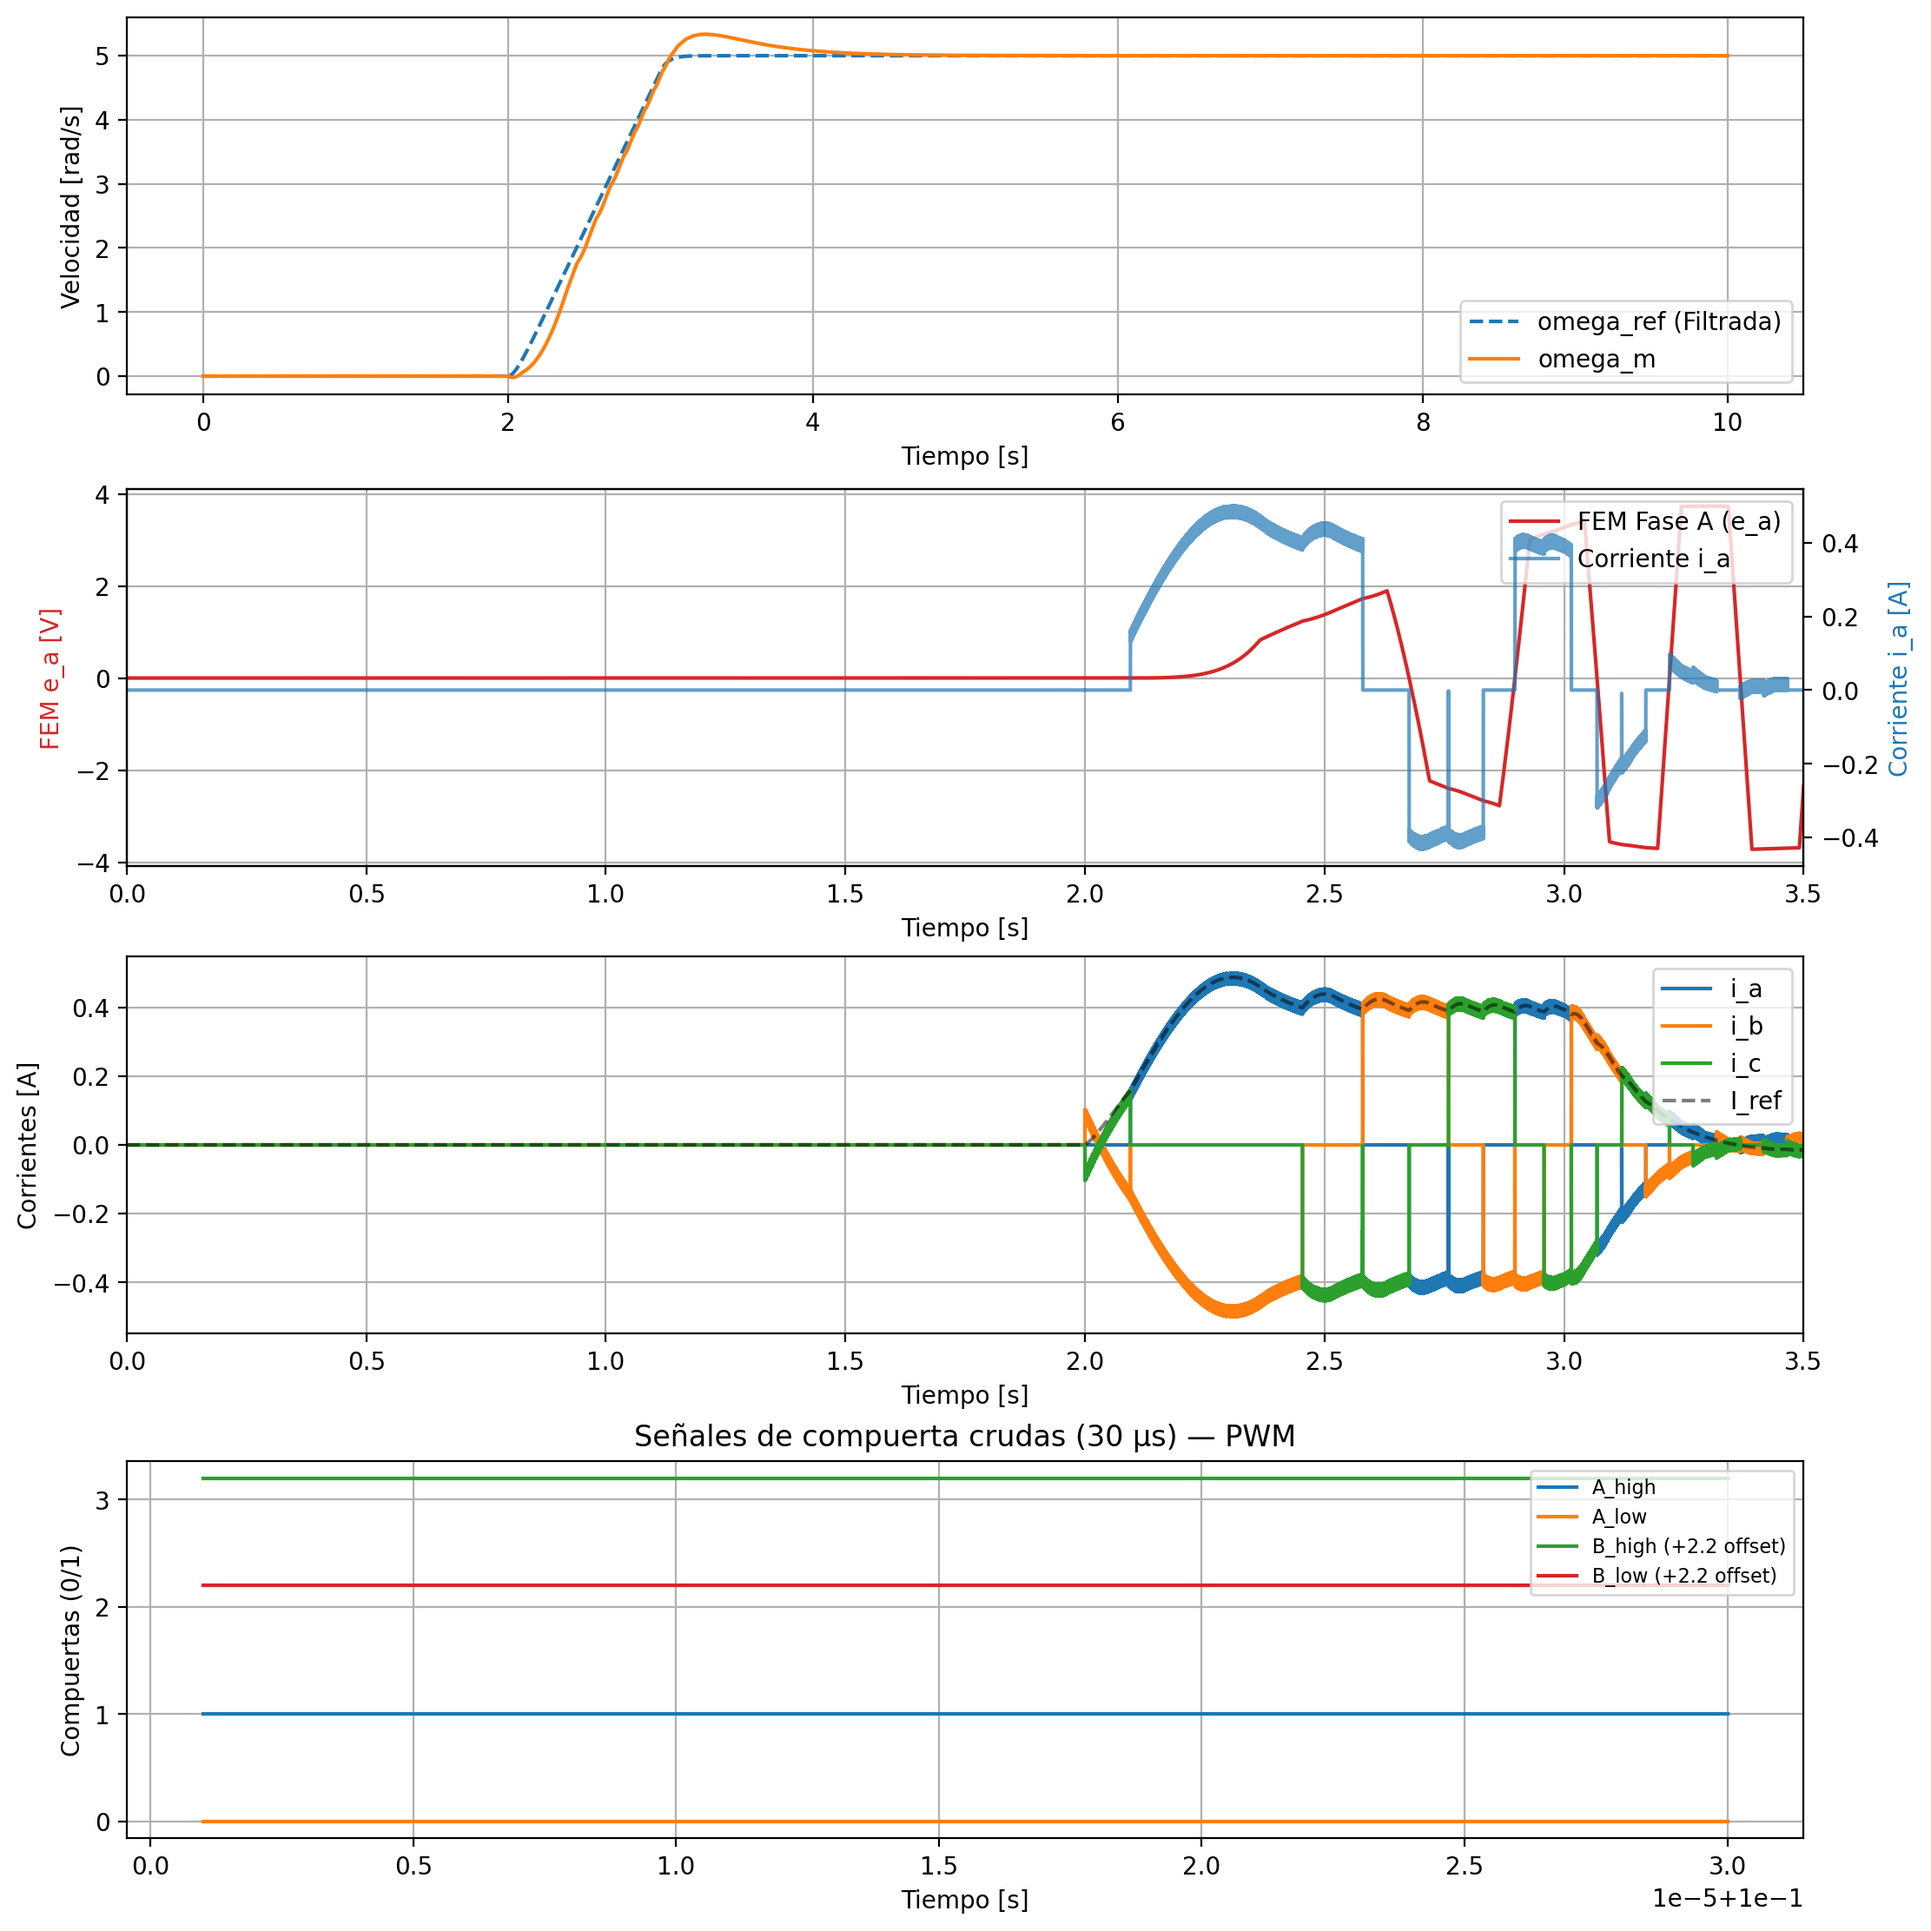
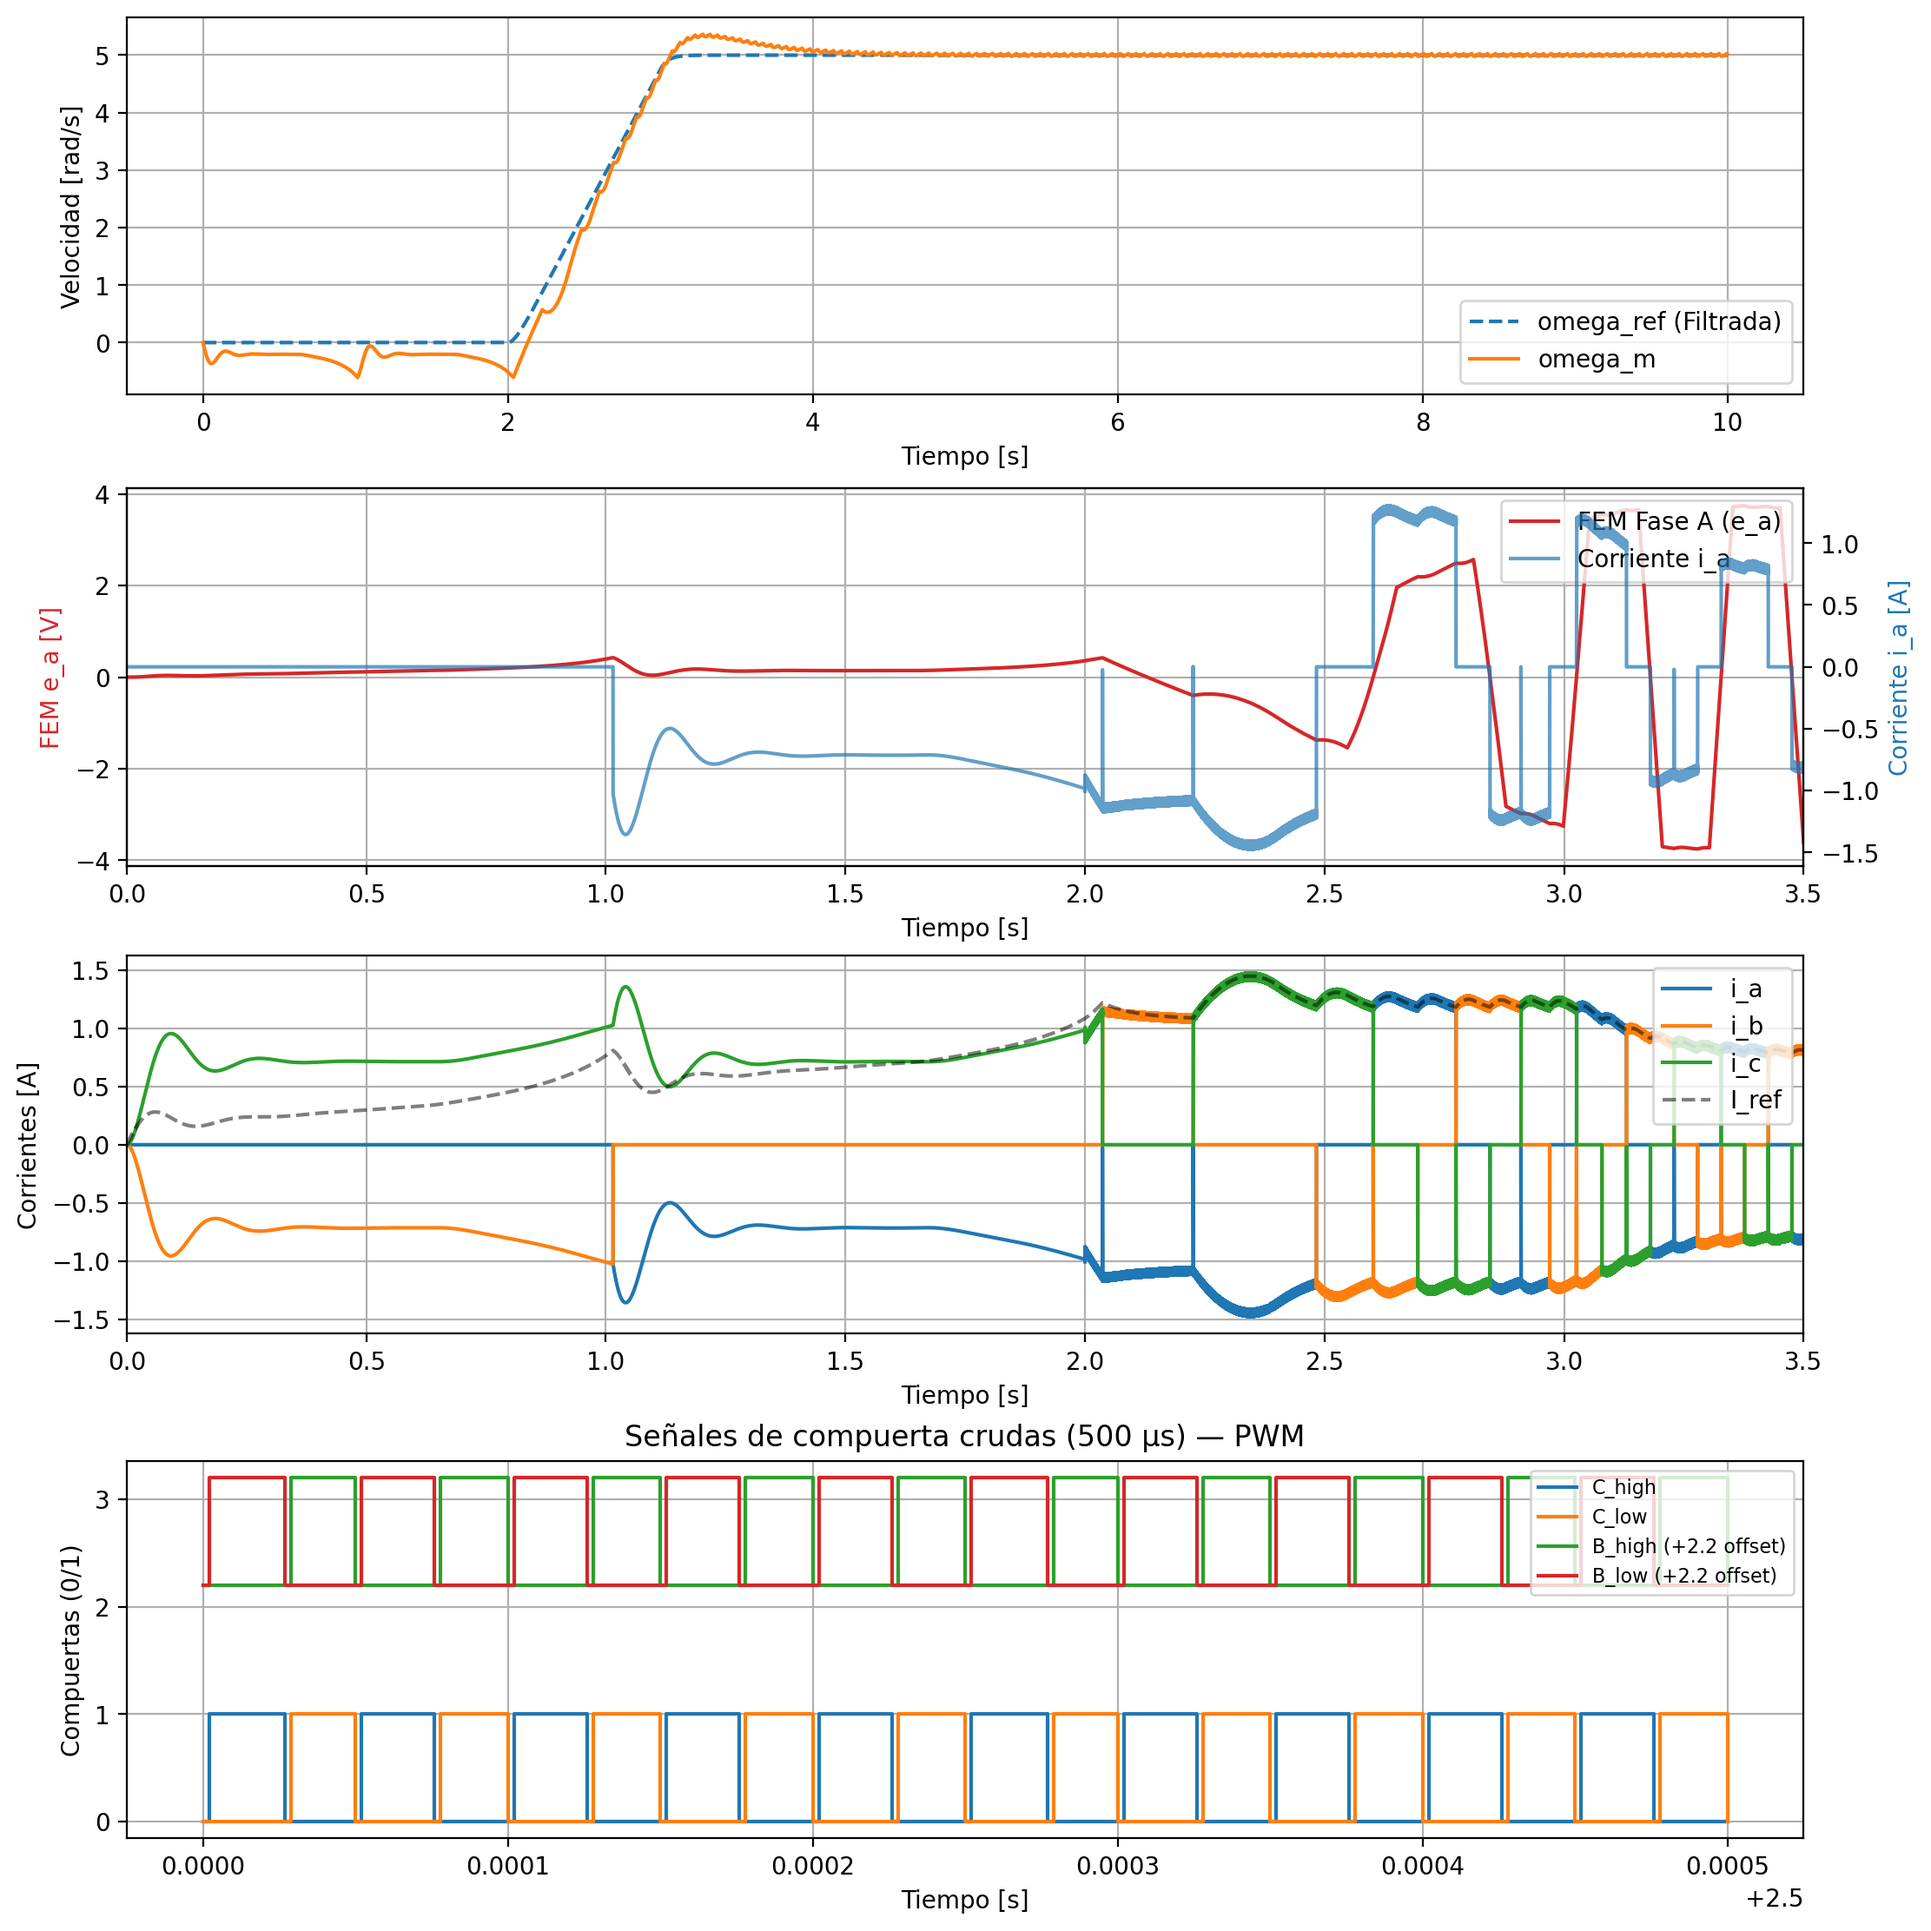
Simulación control por pwm, la fase C Y B estan activas, mientras que la A esta inactiva

diff --git a/src/main.py b/src/main.py
@@ -21,7 +21,7 @@ from electronica.inversor import Inversor
 # SELECCIÓN DE CONTROLADOR DE CORRIENTE
 # ============================================================
 # Opciones: "HISTERESIS" o "PWM"
-CONTROLADOR_CORRIENTE = "HISTERESIS"
+CONTROLADOR_CORRIENTE = "PWM"
 
 # ============================================================
 # PARÁMETROS DEL MOTOR
@@ -68,8 +68,7 @@ DEAD_TIME = 1e-6          # s
 # ============================================================
 T_INICIO_RAMPA = 2.0      # Tiempo en que inicia la rampa [s]
 T_DURACION_RAMPA = 1.0    # Tiempo que tarda en alcanzar la velocidad objetivo [s]
-OMEGA_TARGET = 5.0        # Velocidad final objetivo [rad/s]
-
+OMEGA_TARGET = 5.0
 MODO_CONDICION_INICIAL = "DOS_FASES"
 
 # ============================================================
@@ -84,7 +83,7 @@ TAU_FILTRO_REF = 0.05    # Constante de tiempo del Filtro Pasa Bajas [s]
 
 def crear_controlador_corriente():
     """
-    Importante: instancia el controlador de corriente según CONTROLADOR_CORRIENTE.
+    Instancia el controlador de corriente según CONTROLADOR_CORRIENTE.
     Ambas clases comparten la misma interfaz (.Ts y .calcular(...)),
     así que el resto del programa no necesita saber cuál está activo.
     """
@@ -125,7 +124,7 @@ def main():
     )
 
     n_steps = int(TIEMPO_SIM / DT_PLANT)
-    # k_current ahora se deriva del Ts propio del controlador activo,
+    # k_current se deriva del Ts propio del controlador activo,
     # así que funciona igual sin importar cuál esté seleccionado
     k_current = max(1, round(ctrl_corriente.Ts / DT_PLANT))
     k_speed = max(1, round(TS_VEL / DT_PLANT))
@@ -147,8 +146,8 @@ def main():
     hist_Te = np.zeros(n_steps)
     hist_wref = np.zeros(n_steps)
     hist_Iref = np.zeros(n_steps)
-    hist_Ah = np.zeros(n_steps)
-    hist_Al = np.zeros(n_steps)
+    hist_Ch = np.zeros(n_steps)
+    hist_Cl = np.zeros(n_steps)
     hist_Bh = np.zeros(n_steps)
     hist_Bl = np.zeros(n_steps)
 
@@ -161,7 +160,7 @@ def main():
         if k % k_speed == 0:
             I_ref = ctrl_velocidad.calcular(wref_filtrada, motor.omega_m)
 
-        if k % k_current == 0:
+        if k % k_current == 0:  # Debo cambiar esto, poner otra lógica que me ayude a disminuir los picos de corriente
             if t < T_INICIO_RAMPA:
                 if MODO_CONDICION_INICIAL == "DOS_FASES":
                     cmd_A = 0; cmd_B = 0; cmd_C = 0
@@ -192,8 +191,8 @@ def main():
         hist_Te[k] = motor.Te
         hist_wref[k] = wref_filtrada
         hist_Iref[k] = I_ref
-        hist_Ah[k] = Ah
-        hist_Al[k] = Al
+        hist_Ch[k] = Ch
+        hist_Cl[k] = Cl
         hist_Bh[k] = Bh
         hist_Bl[k] = Bl
 
@@ -232,12 +231,27 @@ def main():
     axs[2].legend(loc="upper right")
     axs[2].grid(True)
 
-    ZOOM_START = 0.10
-    ZOOM_DURACION = 30 * ctrl_corriente.Ts
+    # ------------------------------------------------------------
+    # Ventana de zoom para señales de compuerta:
+    # - PWM: se dimensiona con el PERIODO REAL de conmutación (Ts_pwm),
+    #   no con el Ts de invocación (que en PWM es DT_PLANT, la resolución
+    #   de la portadora). Usar DT_PLANT aquí daría una ventana más corta
+    #   que un solo ciclo de PWM y no se vería el patrón real.
+    # - Histéresis: se sigue usando su Ts de evaluación, como antes.
+    # ------------------------------------------------------------
+    if CONTROLADOR_CORRIENTE == "PWM":
+        periodo_conmutacion = ctrl_corriente.Ts_pwm
+        N_CICLOS_ZOOM = 10   # cuántos periodos de PWM completos mostrar
+    else:
+        periodo_conmutacion = ctrl_corriente.Ts
+        N_CICLOS_ZOOM = 30  # histéresis: mantiene el criterio original
+
+    ZOOM_START = T_INICIO_RAMPA + 0.5
+    ZOOM_DURACION = N_CICLOS_ZOOM * periodo_conmutacion
     zoom_mask = (hist_t >= ZOOM_START) & (hist_t < ZOOM_START + ZOOM_DURACION)
 
-    axs[3].step(hist_t[zoom_mask], hist_Ah[zoom_mask], where="post", label="A_high")
-    axs[3].step(hist_t[zoom_mask], hist_Al[zoom_mask], where="post", label="A_low")
+    axs[3].step(hist_t[zoom_mask], hist_Ch[zoom_mask], where="post", label="C_high")
+    axs[3].step(hist_t[zoom_mask], hist_Cl[zoom_mask], where="post", label="C_low")
     axs[3].step(hist_t[zoom_mask], hist_Bh[zoom_mask] + 2.2, where="post", label="B_high (+2.2 offset)")
     axs[3].step(hist_t[zoom_mask], hist_Bl[zoom_mask] + 2.2, where="post", label="B_low (+2.2 offset)")
     axs[3].set_ylabel("Compuertas (0/1)")
@@ -254,6 +268,32 @@ def main():
     print(f"Gráfica guardada en: {out_path}")
     print(f"Controlador de corriente: {CONTROLADOR_CORRIENTE}")
     print(f"Velocidad final: {hist_omega[-1]:.2f} rad/s (referencia: {hist_wref[-1]:.2f} rad/s)")
+
+    # ---------------- Medidor por Clics ----------------
+    # Haz clic en 2 puntos de la gráfica (por ejemplo, dos flancos
+    # de subida consecutivos de A_high) para medir Δt directamente
+    # y confirmar que el periodo/frecuencia real coincide con FREQ_PWM.
+    puntos_t = []
+
+    def medir_tiempo(event):
+        if event.xdata is not None and event.button == 1:
+            puntos_t.append(event.xdata)
+            print(f"📍 Clic {len(puntos_t)}: t = {event.xdata:.7f} s ({event.xdata * 1e6:.1f} µs)")
+
+            if len(puntos_t) == 2:
+                t1, t2 = puntos_t[0], puntos_t[1]
+                dt = abs(t2 - t1)
+                frecuencia_khz = (1 / dt) / 1000 if dt > 0 else 0
+
+                print("=" * 45)
+                print("MEDICIÓN DE TIEMPO (Δt):")
+                print(f"   • Δt = {dt * 1e6:.2f} µs  ({dt * 1e3:.4f} ms)")
+                print(f"   • Frecuencia (1/Δt) = {frecuencia_khz:.2f} kHz")
+                print("=" * 45 + "\n")
+
+                puntos_t.clear()
+
+    fig.canvas.mpl_connect('button_press_event', medir_tiempo)
 
     plt.show(block=False)
 
